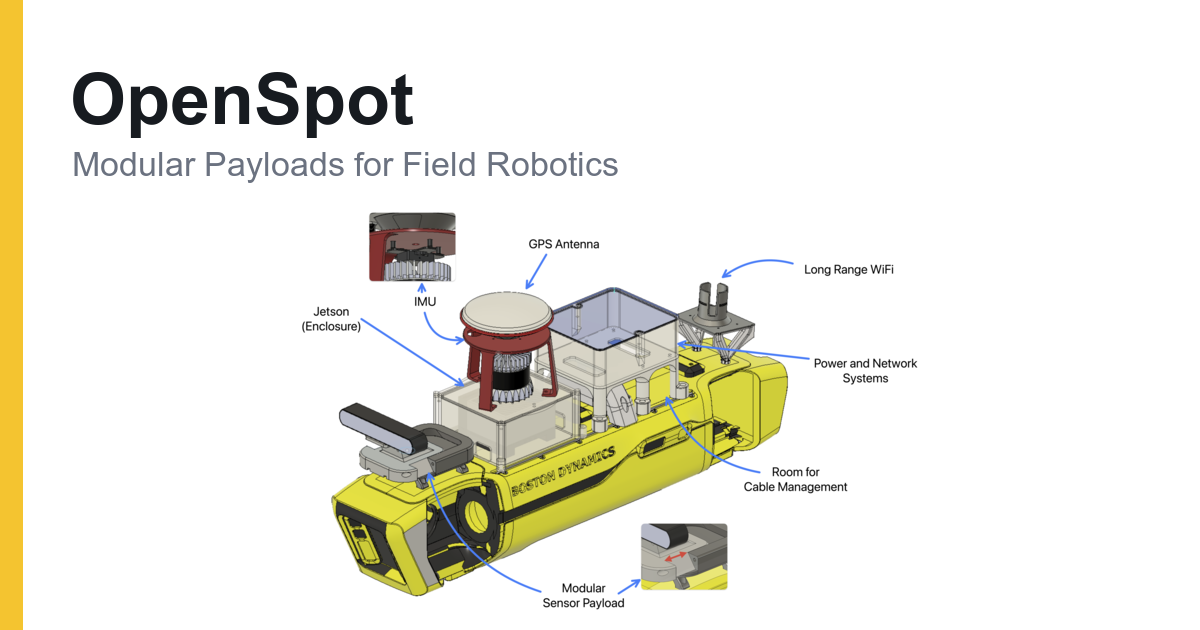
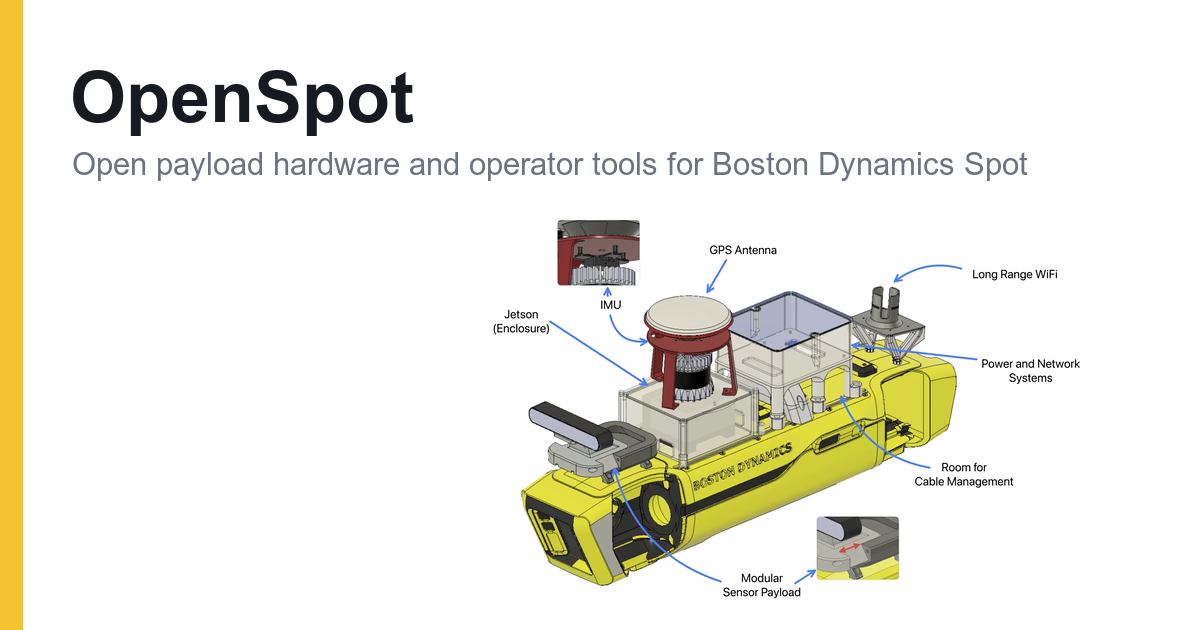
docs: use OpenSpot as project title

diff --git a/index.html b/index.html
@@ -8,7 +8,7 @@
   <meta name="theme-color" content="#f4c430">
 
   <meta property="og:type" content="website">
-  <meta property="og:title" content="OpenSpot: Modular Payloads for Field Robotics">
+  <meta property="og:title" content="OpenSpot">
   <meta property="og:description" content="Open hardware for configurable sensing, compute, networking, and field operation on Spot.">
   <meta property="og:url" content="https://droneslab.github.io/OpenSpot/">
   <meta property="og:image" content="https://droneslab.github.io/OpenSpot/static/images/og-card.png">
@@ -17,11 +17,11 @@
   <meta property="og:image:alt" content="OpenSpot modular payload system mounted on Spot">
 
   <meta name="twitter:card" content="summary_large_image">
-  <meta name="twitter:title" content="OpenSpot: Modular Payloads for Field Robotics">
+  <meta name="twitter:title" content="OpenSpot">
   <meta name="twitter:description" content="A public-alpha modular payload platform for field robotics research.">
   <meta name="twitter:image" content="https://droneslab.github.io/OpenSpot/static/images/og-card.png">
 
-  <title>OpenSpot: Modular Payloads for Field Robotics</title>
+  <title>OpenSpot</title>
   <link rel="icon" href="static/images/favicon.svg" type="image/svg+xml">
   <link rel="preconnect" href="https://fonts.googleapis.com">
   <link rel="preconnect" href="https://fonts.gstatic.com" crossorigin>
@@ -37,8 +37,8 @@
       <div class="hero-body">
         <div class="container is-max-desktop has-text-centered">
           <div class="alpha-badge"><span></span> Public Alpha</div>
-          <h1 class="title is-1 publication-title"><span>Open</span>Spot: Modular Payloads for Field Robotics</h1>
-          <p class="subtitle is-4 project-subtitle">Open hardware and software for sensing, autonomy, and field operations on Boston Dynamics Spot.</p>
+          <h1 class="title is-1 publication-title"><span>Open</span>Spot</h1>
+          <p class="subtitle is-4 project-subtitle">Open payload hardware and operator tools for Boston Dynamics Spot.</p>
 
           <ul class="contributors" aria-label="Project contributors">
             <li>Yash Turkar</li>
@@ -176,7 +176,7 @@
         <p>Until a project paper is available, cite the public repository:</p>
         <pre><code>@misc{openspot2026,
   author       = {Yash Turkar and Yashom Dighe and Christo Aluckal and Travis Minor},
-  title        = {OpenSpot: Modular Payloads for Field Robotics},
+  title        = {OpenSpot},
   year         = {2026},
   howpublished = {\url{https://github.com/droneslab/OpenSpot}},
   note         = {Public alpha}
